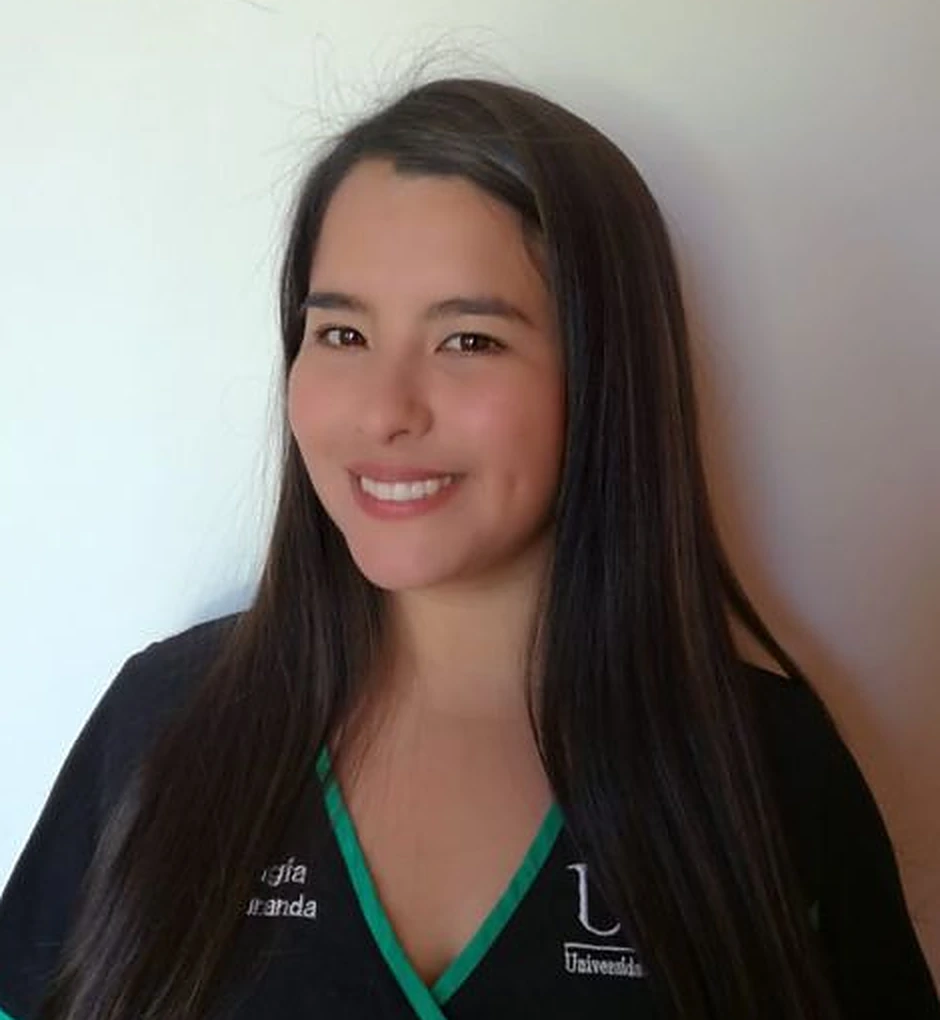
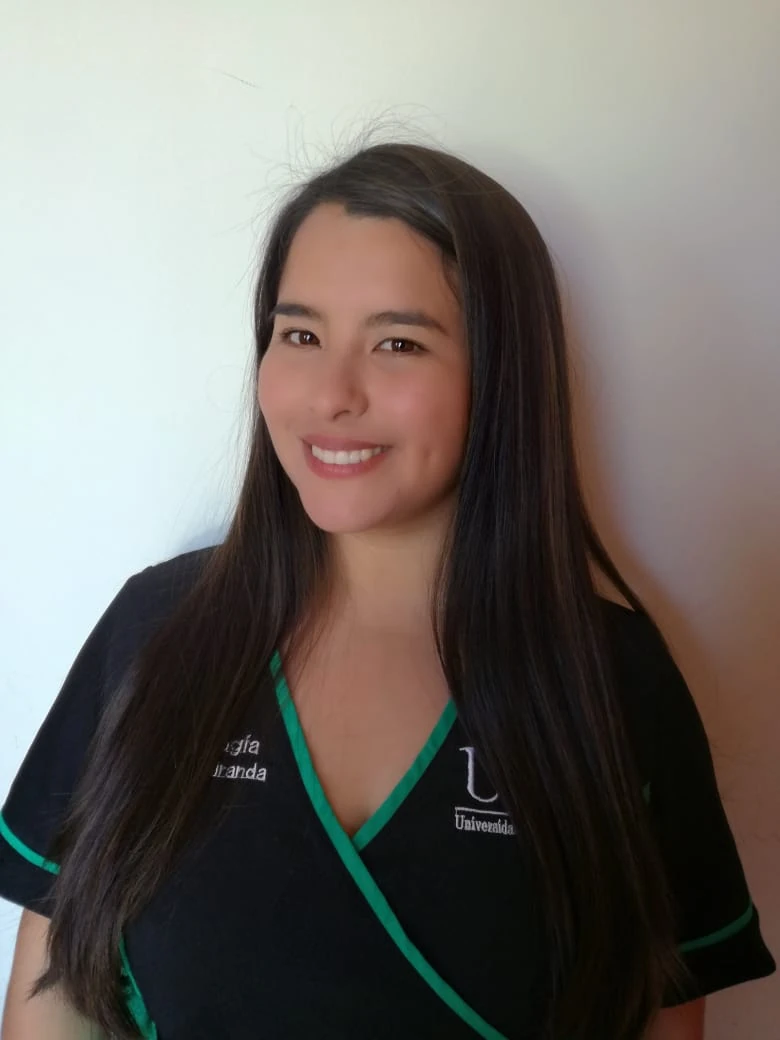
Valores de kinesiología y foto nueva de Javiera
Claude-Session: https://claude.ai/code/session_01LuYoYkQ2QJeBih7uECAx3B

diff --git a/index.html b/index.html
@@ -26,6 +26,7 @@
     <nav class="menu" id="menu" aria-label="Principal">
       <a href="#sobre-mi">Sobre mí</a>
       <a href="#servicios">Servicios</a>
+      <a href="#valores">Valores</a>
       <a href="#atencion">Atención</a>
       <a href="#preguntas">Preguntas</a>
       <a href="#contacto" class="menu-cta">Agendar hora</a>
@@ -68,7 +69,7 @@
   <section class="about" id="sobre-mi">
     <div class="wrap about-in">
       <figure class="photo-frame">
-        <img src="img/javiera-consulta.webp" alt="Javiera Miranda con su uniforme de kinesióloga" width="940" height="1020" loading="lazy">
+        <img src="img/javiera-consulta.webp" alt="Javiera Miranda con su uniforme de kinesióloga" width="780" height="1040" loading="lazy">
       </figure>
       <div class="about-text">
         <h2><em>¿Por qué</em> kinesiología?</h2>
@@ -112,9 +113,9 @@
         <article class="card">
           <p class="card-tag">Rehabilitación</p>
           <h3>Vuelve a moverte sin dolor</h3>
-          <p>Evaluación y tratamiento kinesiológico para dolores y lesiones, con un plan de ejercicios para que el dolor no vuelva.</p>
+          <p>Kinesiología musculoesquelética: evaluación y tratamiento personalizado para dolores y lesiones, con ejercicios para que el dolor no vuelva.</p>
           <ul><li>Dolor de espalda, cuello y hombros</li><li>Contracturas y tensión por estrés</li><li>Recuperación de lesiones</li></ul>
-          <a class="link" data-wa="Hola Javiera, me interesa rehabilitación kinesiológica, ¿me podrías dar más información? 🌿" href="#contacto">Consultar</a>
+          <a class="link" href="#valores">Ver valores</a>
         </article>
         <article class="card">
           <p class="card-tag">Estética</p>
@@ -129,6 +130,37 @@
           <p>Terapia manual y masajes para liberar el cuerpo del estrés del día a día y volver a sentirte liviana.</p>
           <ul><li>Masaje descontracturante</li><li>Masaje de relajación</li><li>Terapia manual</li></ul>
           <a class="link" data-wa="Hola Javiera, me interesa un masaje o terapia de bienestar, ¿me podrías dar más información? 🌿" href="#contacto">Consultar</a>
+        </article>
+      </div>
+    </div>
+  </section>
+
+  <!-- VALORES -->
+  <section class="prices" id="valores">
+    <div class="wrap">
+      <header class="sec-head">
+        <h2><em>Kinesiología</em> musculoesquelética</h2>
+        <p>Valores de las sesiones. Todo el tratamiento es personalizado.</p>
+      </header>
+      <div class="price-grid">
+        <article class="price-card">
+          <p class="card-tag">Individual</p>
+          <ul class="price-list">
+            <li><div><b>1 sesión</b><small>Evaluación kinésica, herramientas kinésicas según corresponda, ejercicios para el hogar, educación e indicaciones.</small></div><span class="price">$35.000</span></li>
+            <li><div><b>Pack 5 sesiones</b><small>Se pueden usar todas las herramientas kinésicas según corresponda. Equivale a $30.000 por sesión.</small></div><span class="price">$150.000</span></li>
+            <li><div><b>Pack 10 sesiones</b><small>Equivale a $25.000 por sesión.</small></div><span class="price">$250.000</span></li>
+          </ul>
+          <a class="btn btn-main" data-wa="Hola Javiera, quiero agendar una sesión de kinesiología 🌿" href="#contacto">Agendar sesión</a>
+        </article>
+        <article class="price-card price-card-alt">
+          <p class="card-tag">Grupal</p>
+          <p class="group-note">Grupos de 2 a 4 personas. Valor por persona.</p>
+          <ul class="price-list">
+            <li><div><b>2 veces por semana</b></div><span class="price">$120.000</span></li>
+            <li><div><b>3 veces por semana</b></div><span class="price">$150.000</span></li>
+            <li><div><b>4 veces por semana</b></div><span class="price">$180.000</span></li>
+          </ul>
+          <a class="btn btn-light" data-wa="Hola Javiera, me interesan las sesiones grupales de kinesiología 🌿" href="#contacto">Armar mi grupo</a>
         </article>
       </div>
     </div>

diff --git a/styles.css b/styles.css
@@ -165,7 +165,7 @@ body::before { content: ""; position: fixed; inset: 0 0 auto; height: env(safe-a
   margin: 0 auto; width: min(86%, 380px); border: 6px solid var(--verde); border-radius: 22px;
   overflow: hidden; transform: rotate(-1.5deg); box-shadow: var(--shadow);
 }
-.photo-frame img { width: 100%; aspect-ratio: 47 / 51; object-fit: cover; }
+.photo-frame img { width: 100%; aspect-ratio: 3 / 4; object-position: 50% 30%; object-fit: cover; }
 .about-text { display: grid; gap: 16px; min-width: 0; }
 .about-text > p { color: var(--ink-soft); }
 .sub { font-size: 1.9rem; margin-top: 24px; }
@@ -204,6 +204,24 @@ body::before { content: ""; position: fixed; inset: 0 0 auto; height: env(safe-a
 .card li { padding-left: 20px; position: relative; }
 .card li::before { content: ""; position: absolute; left: 0; top: .7em; width: 10px; height: 1.5px; background: var(--arena); }
 .card .link { margin-top: auto; }
+
+
+/* ---------- Valores ---------- */
+.prices { padding-top: 0; }
+.price-grid { display: grid; gap: 16px; }
+.price-card { display: grid; gap: 16px; align-content: start; padding: 26px 22px; border-radius: var(--r); background: var(--surface); border: 1px solid var(--line); min-width: 0; }
+.price-card-alt { background: var(--band); color: var(--band-ink); border-color: transparent; }
+.price-card-alt .card-tag { color: var(--band-soft); }
+.price-card-alt b { color: var(--band-ink); }
+.group-note { color: var(--band-soft); font-size: .95rem; margin-top: -8px; }
+.price-list { list-style: none; margin: 0; padding: 0; display: grid; }
+.price-list li { display: flex; justify-content: space-between; align-items: baseline; gap: 16px; padding: 14px 0; border-top: 1px solid var(--line); }
+.price-card-alt .price-list li { border-top-color: rgba(194, 164, 131, .35); }
+.price-list li div { min-width: 0; }
+.price-list small { display: block; color: var(--ink-soft); font-size: .88rem; line-height: 1.45; margin-top: 2px; }
+.price { font-family: var(--f-display); font-size: 1.35rem; color: var(--title); white-space: nowrap; font-variant-numeric: tabular-nums lining-nums; }
+.price-card-alt .price { color: var(--band-ink); }
+.price-card .btn { justify-self: start; margin-top: 4px; }
 
 /* ---------- Forma de trabajar ---------- */
 .method { background: var(--surface-2); }
@@ -289,6 +307,8 @@ body::before { content: ""; position: fixed; inset: 0 0 auto; height: env(safe-a
   .photo-frame { position: sticky; top: 110px; width: 100%; }
   .cards { grid-template-columns: repeat(3, 1fr); }
   .care-grid { grid-template-columns: repeat(3, 1fr); }
+  .price-grid { grid-template-columns: 1.3fr 1fr; }
+  .prices { padding-top: 0; }
   .foot-in { grid-template-columns: auto 1fr auto; align-items: center; gap: 40px; }
   .foot { padding-block: 40px; }
 }
